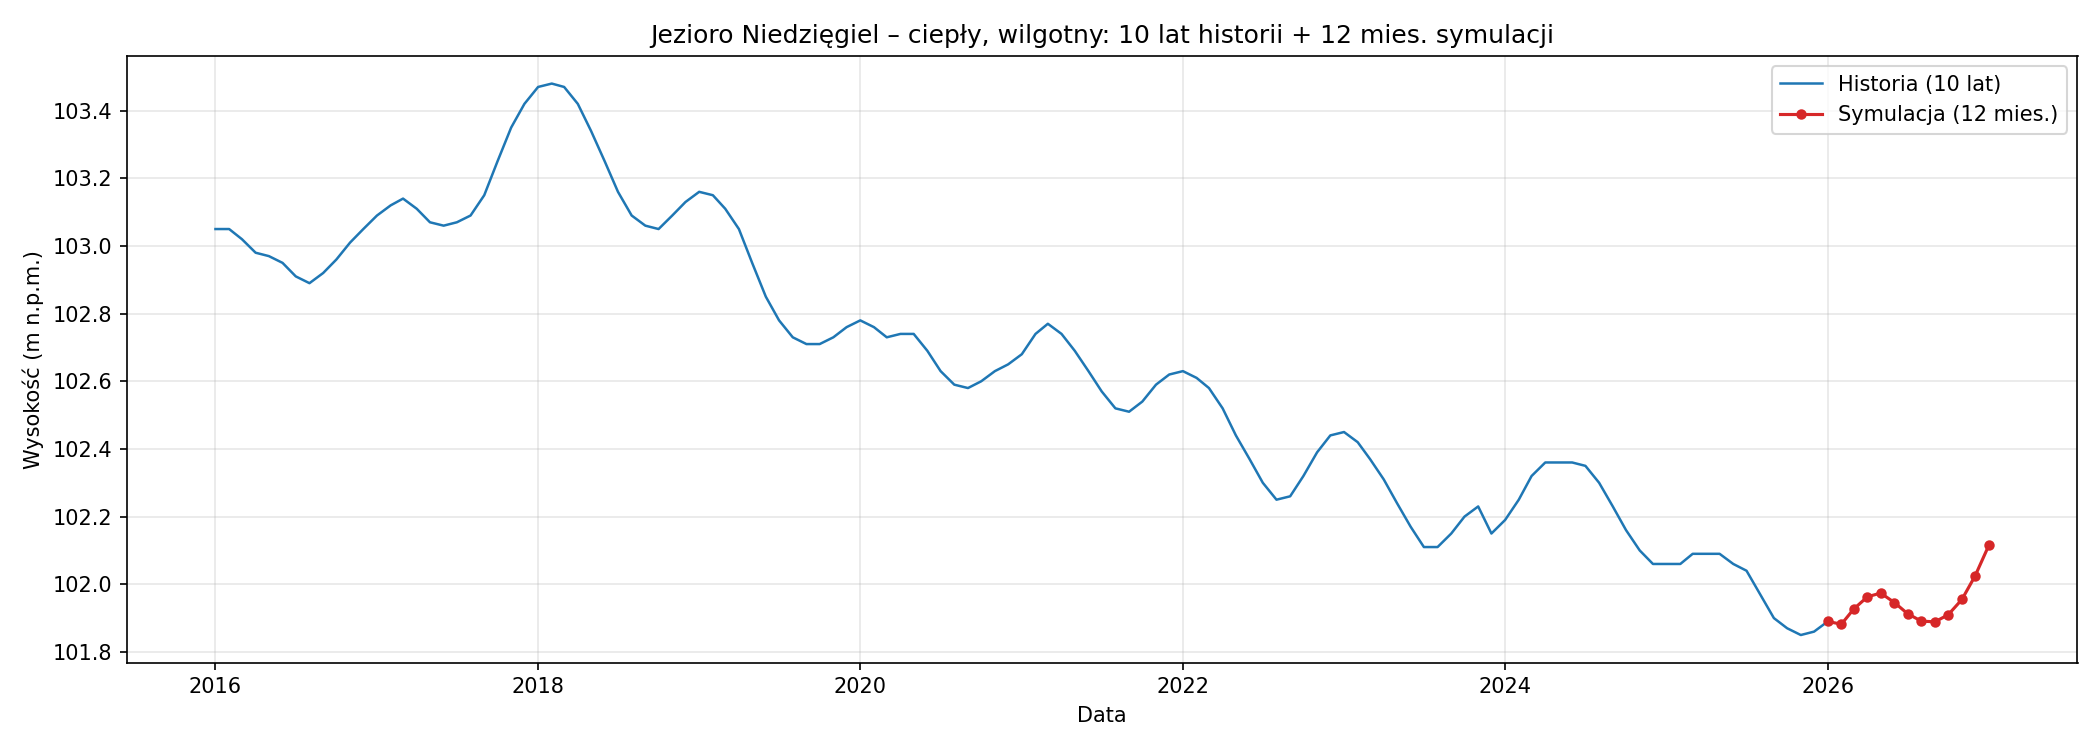
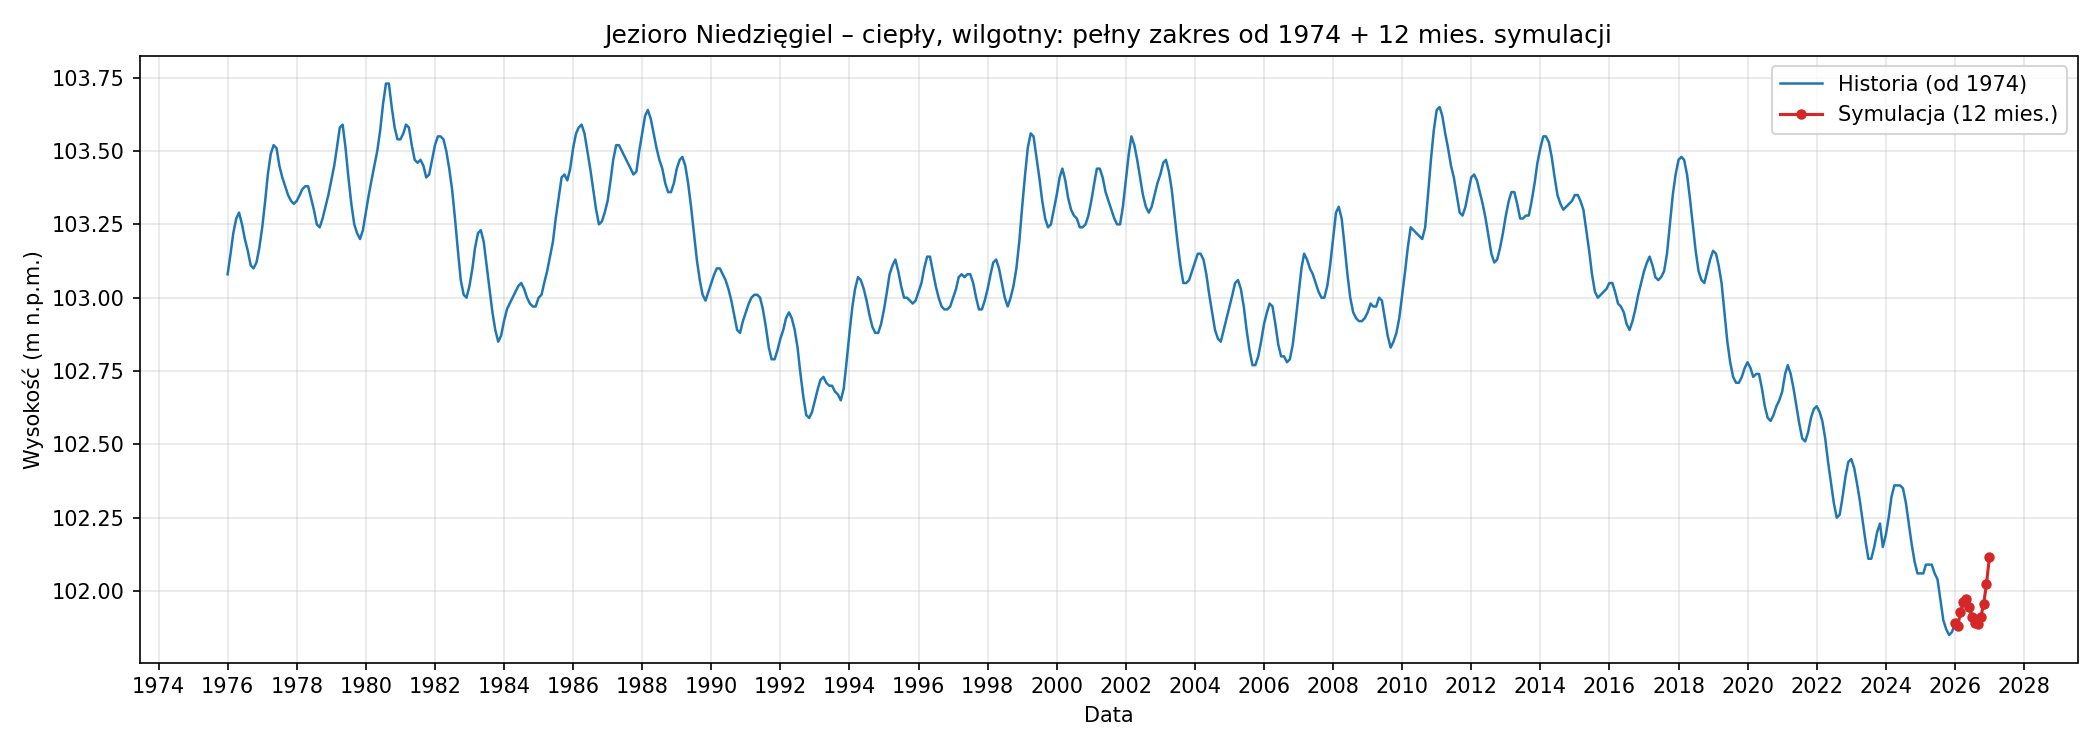
2026.02.15

diff --git a/sources/generate_report_niedziegiel.py b/sources/generate_report_niedziegiel.py
@@ -24,6 +24,8 @@ MONTH_NAMES = {
 }
 PROGNOZA_MIESIACE = [(2025, 12), (2026, 1), (2026, 2)]
 OKNO_HISTORII_LAT = 10
+OKNO_REFERENCJA_MIESIACE = 12
+HISTORIA_OD_ROKU = 1974
 SIMULACJA_MIESIACE_12 = [(2026, m) for m in range(2, 13)] + [(2027, 1)]
 TEMP_KLASY = ("zimny", "normalny", "ciepły")
 OPAD_KLASY = ("suchy", "normalny", "wilgotny")
@@ -66,6 +68,30 @@ def _get_variant_meteo(
         )
         for _, m in months_sequence
     ]
+
+
+def _dodaj_szanse_realizacji(df: pd.DataFrame, warianty: list[dict]) -> None:
+    df_meteo = df.dropna(subset=[lake.COL_OPAD, lake.COL_TEMPERATURA]).sort_values(lake.COL_DATA)
+    if len(df_meteo) < OKNO_REFERENCJA_MIESIACE:
+        for v in warianty:
+            v["szansa_pct"] = 100.0 / len(warianty) if warianty else 0.0
+        return
+    tail = df_meteo.tail(OKNO_REFERENCJA_MIESIACE)
+    ref_opad = float(tail[lake.COL_OPAD].astype(float).mean())
+    ref_temp = float(tail[lake.COL_TEMPERATURA].astype(float).mean())
+    std_opad = float(tail[lake.COL_OPAD].astype(float).std()) or 1.0
+    std_temp = float(tail[lake.COL_TEMPERATURA].astype(float).std()) or 1.0
+    dists = []
+    for v in warianty:
+        o = v["suma_opadu"] / len(v["wyniki"])
+        t = v["srednia_temp_roczna"]
+        d = np.sqrt(((o - ref_opad) / std_opad) ** 2 + ((t - ref_temp) / std_temp) ** 2)
+        dists.append(np.exp(-d))
+    total = sum(dists)
+    if total <= 0:
+        total = 1.0
+    for v, w in zip(warianty, dists):
+        v["szansa_pct"] = round(100.0 * w / total, 1)
 
 
 def _variant_to_filename(nazwa: str) -> str:
@@ -294,8 +320,7 @@ def _plot_wariant_symulacja(
     df_poziom = df_poziom.sort_values(lake.COL_DATA)
     if df_poziom.empty:
         return
-    last_date = df_poziom[lake.COL_DATA].iloc[-1]
-    cutoff = last_date - pd.DateOffset(years=OKNO_HISTORII_LAT)
+    cutoff = pd.Timestamp(f"{HISTORIA_OD_ROKU}-01-01")
     hist = df_poziom[df_poziom[lake.COL_DATA] >= cutoff]
     hist_dates = pd.to_datetime(hist[lake.COL_DATA])
     hist_levels = hist[lake.COL_POZIOM].astype(float)
@@ -304,11 +329,11 @@ def _plot_wariant_symulacja(
     sim_dates = ["2026-01-01"] + [r["data"] + "-01" for r in wyniki]
     sim_levels = [level_jan_2026] + [float(r["poziom"]) for r in wyniki]
     fig, ax = plt.subplots(figsize=(14, 5))
-    ax.plot(hist_dates, hist_levels, color="#1f77b4", linewidth=1.2, label=f"Historia ({OKNO_HISTORII_LAT} lat)")
+    ax.plot(hist_dates, hist_levels, color="#1f77b4", linewidth=1.2, label=f"Historia (od {HISTORIA_OD_ROKU})")
     ax.plot(pd.to_datetime(sim_dates), sim_levels, color="#d62728", linewidth=1.5, marker="o", markersize=4, label="Symulacja (12 mies.)")
     ax.set_xlabel("Data")
     ax.set_ylabel("Wysokość (m n.p.m.)")
-    ax.set_title(f"Jezioro Niedzięgiel – {nazwa}: 10 lat historii + 12 mies. symulacji")
+    ax.set_title(f"Jezioro Niedzięgiel – {nazwa}: pełny zakres od {HISTORIA_OD_ROKU} + 12 mies. symulacji")
     ax.xaxis.set_major_locator(mdates.YearLocator(2))
     ax.xaxis.set_major_formatter(mdates.DateFormatter("%Y"))
     ax.legend(loc="best")
@@ -388,9 +413,16 @@ def _write_report(
         lines.extend([
             "## Symulacje wariantów pogodowych (12 miesięcy do przodu)",
             "",
-            "Dla każdego wariantu (temperatura: zimny/normalny/ciepły × opad: suchy/normalny/wilgotny) opad i temperatura z percentyli historycznych w `data/niedziegiel/data.csv`. Symulacja: 12 miesięcy od lutego 2026 (styczeń 2026 to pomiar rzeczywisty) – luty 2026–styczeń 2027. Wykres: 10 lat historii + 12 miesięcy symulacji (do porównania).",
+            "Dla każdego wariantu (temperatura: zimny/normalny/ciepły × opad: suchy/normalny/wilgotny) opad i temperatura z percentyli historycznych w `data/niedziegiel/data.csv`. Symulacja: 12 miesięcy od lutego 2026 (styczeń 2026 to pomiar rzeczywisty) – luty 2026–styczeń 2027. Wykres: pełny zakres historii (od 1974) + 12 miesięcy symulacji.",
             "",
+            "**Szansa realizacji** (na podstawie zgodności z ostatnimi 12 miesiącami pomiarowymi – średni opad i temperatura):",
+            "",
+            "| Wariant | Szansa realizacji (%) |",
+            "|---------|------------------------|",
         ])
+        for v in warianty:
+            lines.append(f"| {v['nazwa']} | {v['szansa_pct']} |")
+        lines.extend(["", ""])
         for v in warianty:
             nazwa = v["nazwa"]
             fname = f"symulacja_wariant_{_variant_to_filename(nazwa)}.png"
@@ -406,6 +438,7 @@ def _write_report(
                 lines.append(f"| {r['data']} | {round(r['opad'], 1)} | {round(r['temperatura'], 1)} | {r['zmiana_prognoza']} | {r['poziom']} |")
             lines.extend([
                 "",
+                f"- **Szansa realizacji:** {v['szansa_pct']} %",
                 f"- **Średnia temperatura roczna (prognoza):** {round(v['srednia_temp_roczna'], 1)} °C",
                 f"- **Suma opadu (prognoza):** {round(v['suma_opadu'], 1)} mm",
                 f"- **Różnica poziomu wody** (koniec symulacji − start): {v['roznica_poziomu']:+.3f} m",
@@ -427,6 +460,7 @@ def main() -> None:
     print(f"Wykres zapisany: {fig_path}")
     warianty = _symulacje_warianty(df)
     if warianty:
+        _dodaj_szanse_realizacji(df, warianty)
         for v in warianty:
             path_wariant = FIGURES_DIR / f"symulacja_wariant_{_variant_to_filename(v['nazwa'])}.png"
             _plot_wariant_symulacja(

diff --git a/docs/niedziegiel/raport.md b/docs/niedziegiel/raport.md
@@ -20,7 +20,22 @@ Wyliczenie od ostatniego rzeczywistego pomiaru (listopad 2025) z użyciem modelu
 
 ## Symulacje wariantów pogodowych (12 miesięcy do przodu)
 
-Dla każdego wariantu (temperatura: zimny/normalny/ciepły × opad: suchy/normalny/wilgotny) opad i temperatura z percentyli historycznych w `data/niedziegiel/data.csv`. Symulacja: 12 miesięcy od lutego 2026 (styczeń 2026 to pomiar rzeczywisty) – luty 2026–styczeń 2027. Wykres: 10 lat historii + 12 miesięcy symulacji (do porównania).
+Dla każdego wariantu (temperatura: zimny/normalny/ciepły × opad: suchy/normalny/wilgotny) opad i temperatura z percentyli historycznych w `data/niedziegiel/data.csv`. Symulacja: 12 miesięcy od lutego 2026 (styczeń 2026 to pomiar rzeczywisty) – luty 2026–styczeń 2027. Wykres: pełny zakres historii (od 1974) + 12 miesięcy symulacji.
+
+**Szansa realizacji** (na podstawie zgodności z ostatnimi 12 miesiącami pomiarowymi – średni opad i temperatura):
+
+| Wariant | Szansa realizacji (%) |
+|---------|------------------------|
+| zimny, suchy | 10.2 |
+| zimny, normalny | 13.8 |
+| zimny, wilgotny | 7.3 |
+| normalny, suchy | 10.8 |
+| normalny, normalny | 16.0 |
+| normalny, wilgotny | 7.6 |
+| ciepły, suchy | 10.8 |
+| ciepły, normalny | 15.8 |
+| ciepły, wilgotny | 7.6 |
+
 
 ### zimny, suchy
 
@@ -41,6 +56,7 @@ Dla każdego wariantu (temperatura: zimny/normalny/ciepły × opad: suchy/normal
 | 2026-12 | 26.2 | -0.4 | 0.034 | 101.832 |
 | 2027-01 | 23.3 | -2.2 | 0.0433 | 101.875 |
 
+- **Szansa realizacji:** 10.2 %
 - **Średnia temperatura roczna (prognoza):** 7.7 °C
 - **Suma opadu (prognoza):** 322.2 mm
 - **Różnica poziomu wody** (koniec symulacji − start): +0.025 m
@@ -65,6 +81,7 @@ Dla każdego wariantu (temperatura: zimny/normalny/ciepły × opad: suchy/normal
 | 2026-12 | 39.2 | -0.4 | 0.0468 | 101.98 |
 | 2027-01 | 35.5 | -2.2 | 0.0605 | 102.04 |
 
+- **Szansa realizacji:** 13.8 %
 - **Średnia temperatura roczna (prognoza):** 7.7 °C
 - **Suma opadu (prognoza):** 486.1 mm
 - **Różnica poziomu wody** (koniec symulacji − start): +0.190 m
@@ -89,6 +106,7 @@ Dla każdego wariantu (temperatura: zimny/normalny/ciepły × opad: suchy/normal
 | 2026-12 | 47.8 | -0.4 | 0.0697 | 102.155 |
 | 2027-01 | 48.5 | -2.2 | 0.0908 | 102.246 |
 
+- **Szansa realizacji:** 7.3 %
 - **Średnia temperatura roczna (prognoza):** 7.7 °C
 - **Suma opadu (prognoza):** 683.9 mm
 - **Różnica poziomu wody** (koniec symulacji − start): +0.396 m
@@ -113,6 +131,7 @@ Dla każdego wariantu (temperatura: zimny/normalny/ciepły × opad: suchy/normal
 | 2026-12 | 26.2 | 1.2 | 0.0319 | 101.765 |
 | 2027-01 | 23.3 | -0.2 | 0.0445 | 101.81 |
 
+- **Szansa realizacji:** 10.8 %
 - **Średnia temperatura roczna (prognoza):** 9.1 °C
 - **Suma opadu (prognoza):** 322.2 mm
 - **Różnica poziomu wody** (koniec symulacji − start): -0.040 m
@@ -137,6 +156,7 @@ Dla każdego wariantu (temperatura: zimny/normalny/ciepły × opad: suchy/normal
 | 2026-12 | 39.2 | 1.2 | 0.0432 | 101.843 |
 | 2027-01 | 35.5 | -0.2 | 0.0533 | 101.896 |
 
+- **Szansa realizacji:** 16.0 %
 - **Średnia temperatura roczna (prognoza):** 9.1 °C
 - **Suma opadu (prognoza):** 486.1 mm
 - **Różnica poziomu wody** (koniec symulacji − start): +0.046 m
@@ -161,6 +181,7 @@ Dla każdego wariantu (temperatura: zimny/normalny/ciepły × opad: suchy/normal
 | 2026-12 | 47.8 | 1.2 | 0.0698 | 102.024 |
 | 2027-01 | 48.5 | -0.2 | 0.0908 | 102.115 |
 
+- **Szansa realizacji:** 7.6 %
 - **Średnia temperatura roczna (prognoza):** 9.1 °C
 - **Suma opadu (prognoza):** 683.9 mm
 - **Różnica poziomu wody** (koniec symulacji − start): +0.265 m
@@ -185,6 +206,7 @@ Dla każdego wariantu (temperatura: zimny/normalny/ciepły × opad: suchy/normal
 | 2026-12 | 26.2 | 2.2 | 0.0349 | 101.771 |
 | 2027-01 | 23.3 | 1.8 | 0.0414 | 101.813 |
 
+- **Szansa realizacji:** 10.8 %
 - **Średnia temperatura roczna (prognoza):** 10.5 °C
 - **Suma opadu (prognoza):** 322.2 mm
 - **Różnica poziomu wody** (koniec symulacji − start): -0.037 m
@@ -209,6 +231,7 @@ Dla każdego wariantu (temperatura: zimny/normalny/ciepły × opad: suchy/normal
 | 2026-12 | 39.2 | 2.2 | 0.046 | 101.874 |
 | 2027-01 | 35.5 | 1.8 | 0.0594 | 101.934 |
 
+- **Szansa realizacji:** 15.8 %
 - **Średnia temperatura roczna (prognoza):** 10.5 °C
 - **Suma opadu (prognoza):** 486.1 mm
 - **Różnica poziomu wody** (koniec symulacji − start): +0.084 m
@@ -233,6 +256,7 @@ Dla każdego wariantu (temperatura: zimny/normalny/ciepły × opad: suchy/normal
 | 2026-12 | 47.8 | 2.2 | 0.0696 | 102.025 |
 | 2027-01 | 48.5 | 1.8 | 0.0904 | 102.115 |
 
+- **Szansa realizacji:** 7.6 %
 - **Średnia temperatura roczna (prognoza):** 10.5 °C
 - **Suma opadu (prognoza):** 683.9 mm
 - **Różnica poziomu wody** (koniec symulacji − start): +0.265 m
